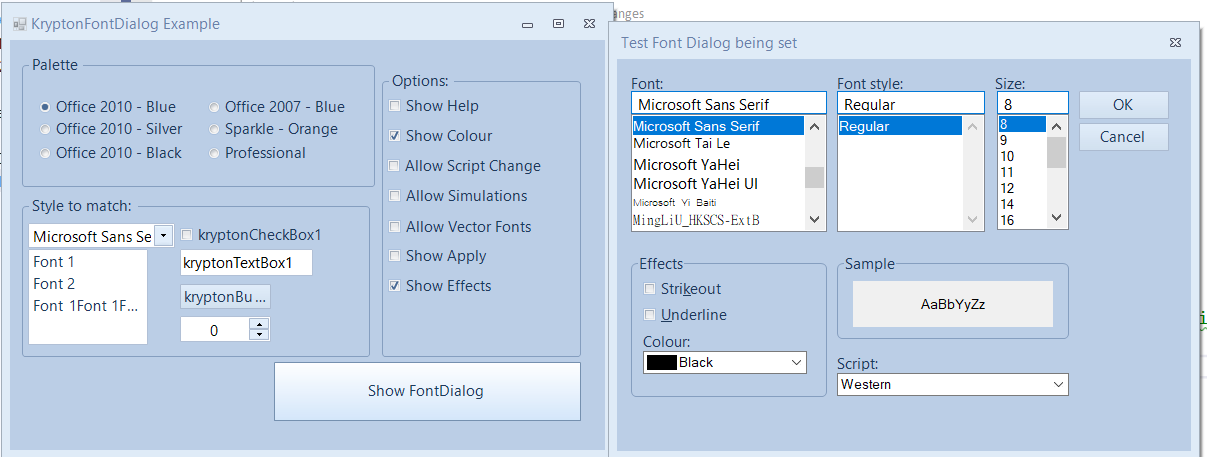
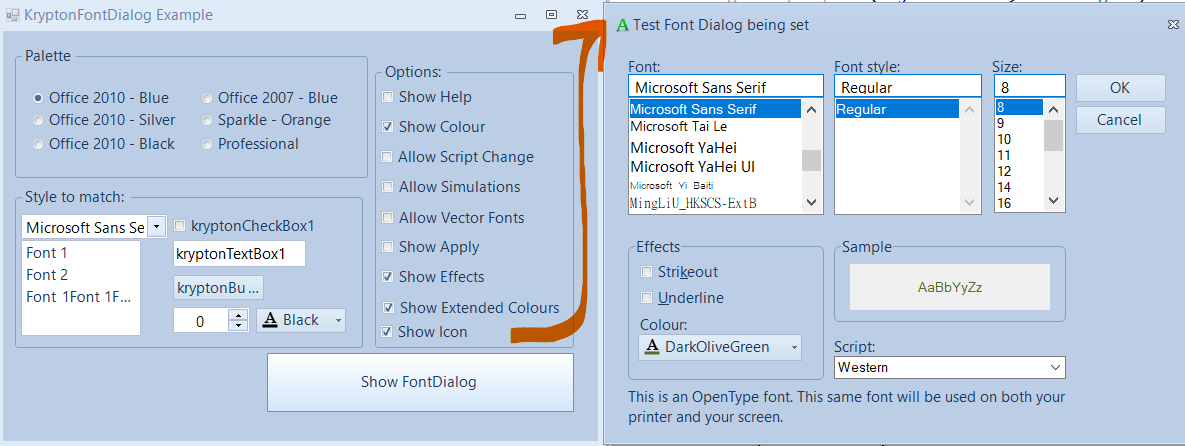
- Add `ShowIcon` checkbox to sample apps - Update example images Implements: https://github.com/Krypton-Suite/Standard-Toolkit/issues/395

diff --git a/Source/Krypton Toolkit Examples/KryptonColorDialog Example/Properties/Resources.Designer.cs b/Source/Krypton Toolkit Examples/KryptonColorDialog Example/Properties/Resources.Designer.cs
@@ -1,0 +1,73 @@
+//------------------------------------------------------------------------------
+// <auto-generated>
+//     This code was generated by a tool.
+//     Runtime Version:4.0.30319.42000
+//
+//     Changes to this file may cause incorrect behavior and will be lost if
+//     the code is regenerated.
+// </auto-generated>
+//------------------------------------------------------------------------------
+
+namespace KryptonColorDialog.Properties {
+    using System;
+    
+    
+    /// <summary>
+    ///   A strongly-typed resource class, for looking up localized strings, etc.
+    /// </summary>
+    // This class was auto-generated by the StronglyTypedResourceBuilder
+    // class via a tool like ResGen or Visual Studio.
+    // To add or remove a member, edit your .ResX file then rerun ResGen
+    // with the /str option, or rebuild your VS project.
+    [global::System.CodeDom.Compiler.GeneratedCodeAttribute("System.Resources.Tools.StronglyTypedResourceBuilder", "16.0.0.0")]
+    [global::System.Diagnostics.DebuggerNonUserCodeAttribute()]
+    [global::System.Runtime.CompilerServices.CompilerGeneratedAttribute()]
+    internal class Resources {
+        
+        private static global::System.Resources.ResourceManager resourceMan;
+        
+        private static global::System.Globalization.CultureInfo resourceCulture;
+        
+        [global::System.Diagnostics.CodeAnalysis.SuppressMessageAttribute("Microsoft.Performance", "CA1811:AvoidUncalledPrivateCode")]
+        internal Resources() {
+        }
+        
+        /// <summary>
+        ///   Returns the cached ResourceManager instance used by this class.
+        /// </summary>
+        [global::System.ComponentModel.EditorBrowsableAttribute(global::System.ComponentModel.EditorBrowsableState.Advanced)]
+        internal static global::System.Resources.ResourceManager ResourceManager {
+            get {
+                if (object.ReferenceEquals(resourceMan, null)) {
+                    global::System.Resources.ResourceManager temp = new global::System.Resources.ResourceManager("KryptonColorDialog.Properties.Resources", typeof(Resources).Assembly);
+                    resourceMan = temp;
+                }
+                return resourceMan;
+            }
+        }
+        
+        /// <summary>
+        ///   Overrides the current thread's CurrentUICulture property for all
+        ///   resource lookups using this strongly typed resource class.
+        /// </summary>
+        [global::System.ComponentModel.EditorBrowsableAttribute(global::System.ComponentModel.EditorBrowsableState.Advanced)]
+        internal static global::System.Globalization.CultureInfo Culture {
+            get {
+                return resourceCulture;
+            }
+            set {
+                resourceCulture = value;
+            }
+        }
+        
+        /// <summary>
+        ///   Looks up a localized resource of type System.Drawing.Icon similar to (Icon).
+        /// </summary>
+        internal static System.Drawing.Icon Krypton {
+            get {
+                object obj = ResourceManager.GetObject("Krypton", resourceCulture);
+                return ((System.Drawing.Icon)(obj));
+            }
+        }
+    }
+}

diff --git a/Source/Krypton Toolkit Examples/KryptonColorDialog Example/Form1.Designer.cs b/Source/Krypton Toolkit Examples/KryptonColorDialog Example/Form1.Designer.cs
@@ -40,6 +40,7 @@ namespace KryptonFontDialog_Example_2019
             this.buttonShowFontDialog = new Krypton.Toolkit.KryptonButton();
             this.kryptonPanel1 = new Krypton.Toolkit.KryptonPanel();
             this.kryptonGroupBox2 = new Krypton.Toolkit.KryptonGroupBox();
+            this.chkShowIcon = new Krypton.Toolkit.KryptonCheckBox();
             this.chkSolidColorOnly = new Krypton.Toolkit.KryptonCheckBox();
             this.chkFullOPen = new Krypton.Toolkit.KryptonCheckBox();
             this.chkAnyColor = new Krypton.Toolkit.KryptonCheckBox();
@@ -72,6 +73,9 @@ namespace KryptonFontDialog_Example_2019
             // 
             // groupBoxPalette
             // 
+            this.groupBoxPalette.CaptionStyle = Krypton.Toolkit.LabelStyle.GroupBoxCaption;
+            this.groupBoxPalette.GroupBackStyle = Krypton.Toolkit.PaletteBackStyle.ControlGroupBox;
+            this.groupBoxPalette.GroupBorderStyle = Krypton.Toolkit.PaletteBorderStyle.ControlGroupBox;
             this.groupBoxPalette.Location = new System.Drawing.Point(12, 12);
             this.groupBoxPalette.Margin = new System.Windows.Forms.Padding(3, 2, 3, 2);
             this.groupBoxPalette.Name = "groupBoxPalette";
@@ -174,12 +178,16 @@ namespace KryptonFontDialog_Example_2019
             // 
             // kryptonGroupBox2
             // 
+            this.kryptonGroupBox2.CaptionStyle = Krypton.Toolkit.LabelStyle.GroupBoxCaption;
+            this.kryptonGroupBox2.GroupBackStyle = Krypton.Toolkit.PaletteBackStyle.ControlGroupBox;
+            this.kryptonGroupBox2.GroupBorderStyle = Krypton.Toolkit.PaletteBorderStyle.ControlGroupBox;
             this.kryptonGroupBox2.Location = new System.Drawing.Point(372, 28);
             this.kryptonGroupBox2.Margin = new System.Windows.Forms.Padding(3, 2, 3, 2);
             this.kryptonGroupBox2.Name = "kryptonGroupBox2";
             // 
             // kryptonGroupBox2.Panel
             // 
+            this.kryptonGroupBox2.Panel.Controls.Add(this.chkShowIcon);
             this.kryptonGroupBox2.Panel.Controls.Add(this.chkSolidColorOnly);
             this.kryptonGroupBox2.Panel.Controls.Add(this.chkFullOPen);
             this.kryptonGroupBox2.Panel.Controls.Add(this.chkAnyColor);
@@ -188,6 +196,15 @@ namespace KryptonFontDialog_Example_2019
             this.kryptonGroupBox2.Size = new System.Drawing.Size(199, 289);
             this.kryptonGroupBox2.TabIndex = 21;
             this.kryptonGroupBox2.Values.Heading = "Options:";
+            // 
+            // chkShowIcon
+            // 
+            this.chkShowIcon.Location = new System.Drawing.Point(4, 149);
+            this.chkShowIcon.Margin = new System.Windows.Forms.Padding(3, 2, 3, 2);
+            this.chkShowIcon.Name = "chkShowIcon";
+            this.chkShowIcon.Size = new System.Drawing.Size(95, 24);
+            this.chkShowIcon.TabIndex = 5;
+            this.chkShowIcon.Values.Text = "Show Icon";
             // 
             // chkSolidColorOnly
             // 
@@ -238,6 +255,9 @@ namespace KryptonFontDialog_Example_2019
             // 
             // kryptonGroupBox1
             // 
+            this.kryptonGroupBox1.CaptionStyle = Krypton.Toolkit.LabelStyle.GroupBoxCaption;
+            this.kryptonGroupBox1.GroupBackStyle = Krypton.Toolkit.PaletteBackStyle.ControlGroupBox;
+            this.kryptonGroupBox1.GroupBorderStyle = Krypton.Toolkit.PaletteBorderStyle.ControlGroupBox;
             this.kryptonGroupBox1.Location = new System.Drawing.Point(12, 153);
             this.kryptonGroupBox1.Margin = new System.Windows.Forms.Padding(3, 2, 3, 2);
             this.kryptonGroupBox1.Name = "kryptonGroupBox1";
@@ -323,7 +343,10 @@ namespace KryptonFontDialog_Example_2019
             this.AutoScaleMode = System.Windows.Forms.AutoScaleMode.Font;
             this.ClientSize = new System.Drawing.Size(595, 410);
             this.Controls.Add(this.kryptonPanel1);
+            this.FormBorderStyle = System.Windows.Forms.FormBorderStyle.FixedSingle;
             this.Margin = new System.Windows.Forms.Padding(3, 2, 3, 2);
+            this.MaximizeBox = false;
+            this.MinimizeBox = false;
             this.Name = "Form1";
             this.Text = "KryptonColorDialog Example";
             ((System.ComponentModel.ISupportInitialize)(this.groupBoxPalette.Panel)).EndInit();
@@ -373,6 +396,7 @@ namespace KryptonFontDialog_Example_2019
         private Krypton.Toolkit.KryptonCheckBox chkFullOPen;
         private Krypton.Toolkit.KryptonCheckBox chkAnyColor;
         private Krypton.Toolkit.KryptonManager kryptonManager;
+        private Krypton.Toolkit.KryptonCheckBox chkShowIcon;
     }
 }
 

diff --git a/Source/Krypton Toolkit Examples/KryptonFontDialog Example/Form1.Designer.cs b/Source/Krypton Toolkit Examples/KryptonFontDialog Example/Form1.Designer.cs
@@ -57,6 +57,7 @@ namespace KryptonFontDialog_Example_2019
             this.kryptonListBox1 = new Krypton.Toolkit.KryptonListBox();
             this.kryptonComboBox1 = new Krypton.Toolkit.KryptonComboBox();
             this.kryptonManager = new Krypton.Toolkit.KryptonManager(this.components);
+            this.chkShowIcon = new Krypton.Toolkit.KryptonCheckBox();
             ((System.ComponentModel.ISupportInitialize)(this.groupBoxPalette)).BeginInit();
             ((System.ComponentModel.ISupportInitialize)(this.groupBoxPalette.Panel)).BeginInit();
             this.groupBoxPalette.Panel.SuspendLayout();
@@ -76,6 +77,9 @@ namespace KryptonFontDialog_Example_2019
             // 
             // groupBoxPalette
             // 
+            this.groupBoxPalette.CaptionStyle = Krypton.Toolkit.LabelStyle.GroupBoxCaption;
+            this.groupBoxPalette.GroupBackStyle = Krypton.Toolkit.PaletteBackStyle.ControlGroupBox;
+            this.groupBoxPalette.GroupBorderStyle = Krypton.Toolkit.PaletteBorderStyle.ControlGroupBox;
             this.groupBoxPalette.Location = new System.Drawing.Point(12, 12);
             this.groupBoxPalette.Margin = new System.Windows.Forms.Padding(3, 2, 3, 2);
             this.groupBoxPalette.Name = "groupBoxPalette";
@@ -178,12 +182,16 @@ namespace KryptonFontDialog_Example_2019
             // 
             // kryptonGroupBox2
             // 
+            this.kryptonGroupBox2.CaptionStyle = Krypton.Toolkit.LabelStyle.GroupBoxCaption;
+            this.kryptonGroupBox2.GroupBackStyle = Krypton.Toolkit.PaletteBackStyle.ControlGroupBox;
+            this.kryptonGroupBox2.GroupBorderStyle = Krypton.Toolkit.PaletteBorderStyle.ControlGroupBox;
             this.kryptonGroupBox2.Location = new System.Drawing.Point(372, 28);
             this.kryptonGroupBox2.Margin = new System.Windows.Forms.Padding(3, 2, 3, 2);
             this.kryptonGroupBox2.Name = "kryptonGroupBox2";
             // 
             // kryptonGroupBox2.Panel
             // 
+            this.kryptonGroupBox2.Panel.Controls.Add(this.chkShowIcon);
             this.kryptonGroupBox2.Panel.Controls.Add(this.chklShowExtendedColours);
             this.kryptonGroupBox2.Panel.Controls.Add(this.chkShowEffects);
             this.kryptonGroupBox2.Panel.Controls.Add(this.chkShowApply);
@@ -276,6 +284,9 @@ namespace KryptonFontDialog_Example_2019
             // 
             // kryptonGroupBox1
             // 
+            this.kryptonGroupBox1.CaptionStyle = Krypton.Toolkit.LabelStyle.GroupBoxCaption;
+            this.kryptonGroupBox1.GroupBackStyle = Krypton.Toolkit.PaletteBackStyle.ControlGroupBox;
+            this.kryptonGroupBox1.GroupBorderStyle = Krypton.Toolkit.PaletteBorderStyle.ControlGroupBox;
             this.kryptonGroupBox1.Location = new System.Drawing.Point(12, 153);
             this.kryptonGroupBox1.Margin = new System.Windows.Forms.Padding(3, 2, 3, 2);
             this.kryptonGroupBox1.Name = "kryptonGroupBox1";
@@ -303,11 +314,14 @@ namespace KryptonFontDialog_Example_2019
             this.kryptonColorButton1.Size = new System.Drawing.Size(90, 25);
             this.kryptonColorButton1.Splitter = false;
             this.kryptonColorButton1.StateCommon.Content.AdjacentGap = 3;
+            this.kryptonColorButton1.StateCommon.Content.Image.Effect = Krypton.Toolkit.PaletteImageEffect.Inherit;
             this.kryptonColorButton1.StateCommon.Content.Image.ImageH = Krypton.Toolkit.PaletteRelativeAlign.Near;
             this.kryptonColorButton1.StateCommon.Content.Image.ImageV = Krypton.Toolkit.PaletteRelativeAlign.Center;
             this.kryptonColorButton1.StateCommon.Content.Padding = new System.Windows.Forms.Padding(5, 0, 0, 0);
+            this.kryptonColorButton1.StateCommon.Content.ShortText.ImageStyle = Krypton.Toolkit.PaletteImageStyle.Inherit;
             this.kryptonColorButton1.StateCommon.Content.ShortText.TextH = Krypton.Toolkit.PaletteRelativeAlign.Near;
             this.kryptonColorButton1.StateCommon.Content.ShortText.TextV = Krypton.Toolkit.PaletteRelativeAlign.Center;
+            this.kryptonColorButton1.StateCommon.Content.ShortText.Trim = Krypton.Toolkit.PaletteTextTrim.Inherit;
             this.kryptonColorButton1.TabIndex = 7;
             this.kryptonColorButton1.Values.Text = "Black";
             this.kryptonColorButton1.SelectedColorChanged += new System.EventHandler<Krypton.Toolkit.ColorEventArgs>(this.KryptonColorButton1_SelectedColorChanged);
@@ -375,6 +389,15 @@ namespace KryptonFontDialog_Example_2019
             this.kryptonComboBox1.TabIndex = 0;
             this.kryptonComboBox1.Text = "Microsoft Sans Serif";
             // 
+            // chkShowIcon
+            // 
+            this.chkShowIcon.Location = new System.Drawing.Point(3, 235);
+            this.chkShowIcon.Margin = new System.Windows.Forms.Padding(3, 2, 3, 2);
+            this.chkShowIcon.Name = "chkShowIcon";
+            this.chkShowIcon.Size = new System.Drawing.Size(95, 24);
+            this.chkShowIcon.TabIndex = 8;
+            this.chkShowIcon.Values.Text = "Show Icon";
+            // 
             // Form1
             // 
             this.AutoScaleDimensions = new System.Drawing.SizeF(8F, 16F);
@@ -435,6 +458,7 @@ namespace KryptonFontDialog_Example_2019
         private Krypton.Toolkit.KryptonManager kryptonManager;
         private Krypton.Toolkit.KryptonCheckBox chklShowExtendedColours;
         private Krypton.Toolkit.KryptonColorButton kryptonColorButton1;
+        private Krypton.Toolkit.KryptonCheckBox chkShowIcon;
     }
 }
 

diff --git a/Source/Krypton Toolkit Examples/KryptonColorDialog Example/Form1.cs b/Source/Krypton Toolkit Examples/KryptonColorDialog Example/Form1.cs
@@ -3,11 +3,18 @@ using System.Windows.Forms;
 
 using Krypton.Toolkit;
 
+using KryptonColorDialog.Properties;
+
 namespace KryptonFontDialog_Example_2019
 {
     public partial class Form1 : KryptonForm
     {
-        public Form1() => InitializeComponent();
+        public Form1()
+        {
+            InitializeComponent();
+            Icon = Resources.Krypton;
+
+        }
 
         private void Palette2010Blue_CheckedChanged(object sender, EventArgs e) => kryptonManager.GlobalPaletteMode = PaletteModeManager.Office2010Blue;
 
@@ -24,14 +31,15 @@ namespace KryptonFontDialog_Example_2019
         private int[] customColors;
         private void ButtonShowFontDialog_Click(object sender, EventArgs e)
         {
-            var kfd = new KryptonColorDialog {
+            var kfd = new Krypton.Toolkit.KryptonColorDialog {
                 AllowFullOpen = chkAllowFullOpen.Checked,
                 ShowHelp = chkShowHelp.Checked,
                 AnyColor = chkAnyColor.Checked,
                 FullOpen = chkFullOPen.Checked,
                 SolidColorOnly = chkSolidColorOnly.Checked,
                 CustomColors = customColors,
-                Title = @"Test Colour Dialog being set"
+                Title = @"Test Colour Dialog being set",
+                ShowIcon = chkShowIcon.Checked
             };
             if (kfd.ShowDialog(this) == DialogResult.OK)
             {

diff --git a/Source/Krypton Toolkit Examples/KryptonFontDialog Example/Form1.cs b/Source/Krypton Toolkit Examples/KryptonFontDialog Example/Form1.cs
@@ -45,7 +45,8 @@ namespace KryptonFontDialog_Example_2019
                 Font = fontLast,
                 Title = @"Test Font Dialog being set",
                 DisplayIsPrinterFontDescription = true,
-                DisplayExtendedColorsButton = chklShowExtendedColours.Checked
+                DisplayExtendedColorsButton = chklShowExtendedColours.Checked,
+                ShowIcon = chkShowIcon.Checked
            };
             kfd.Color = Color.DarkOliveGreen;
             if (kfd.ShowDialog(this) == DialogResult.OK)